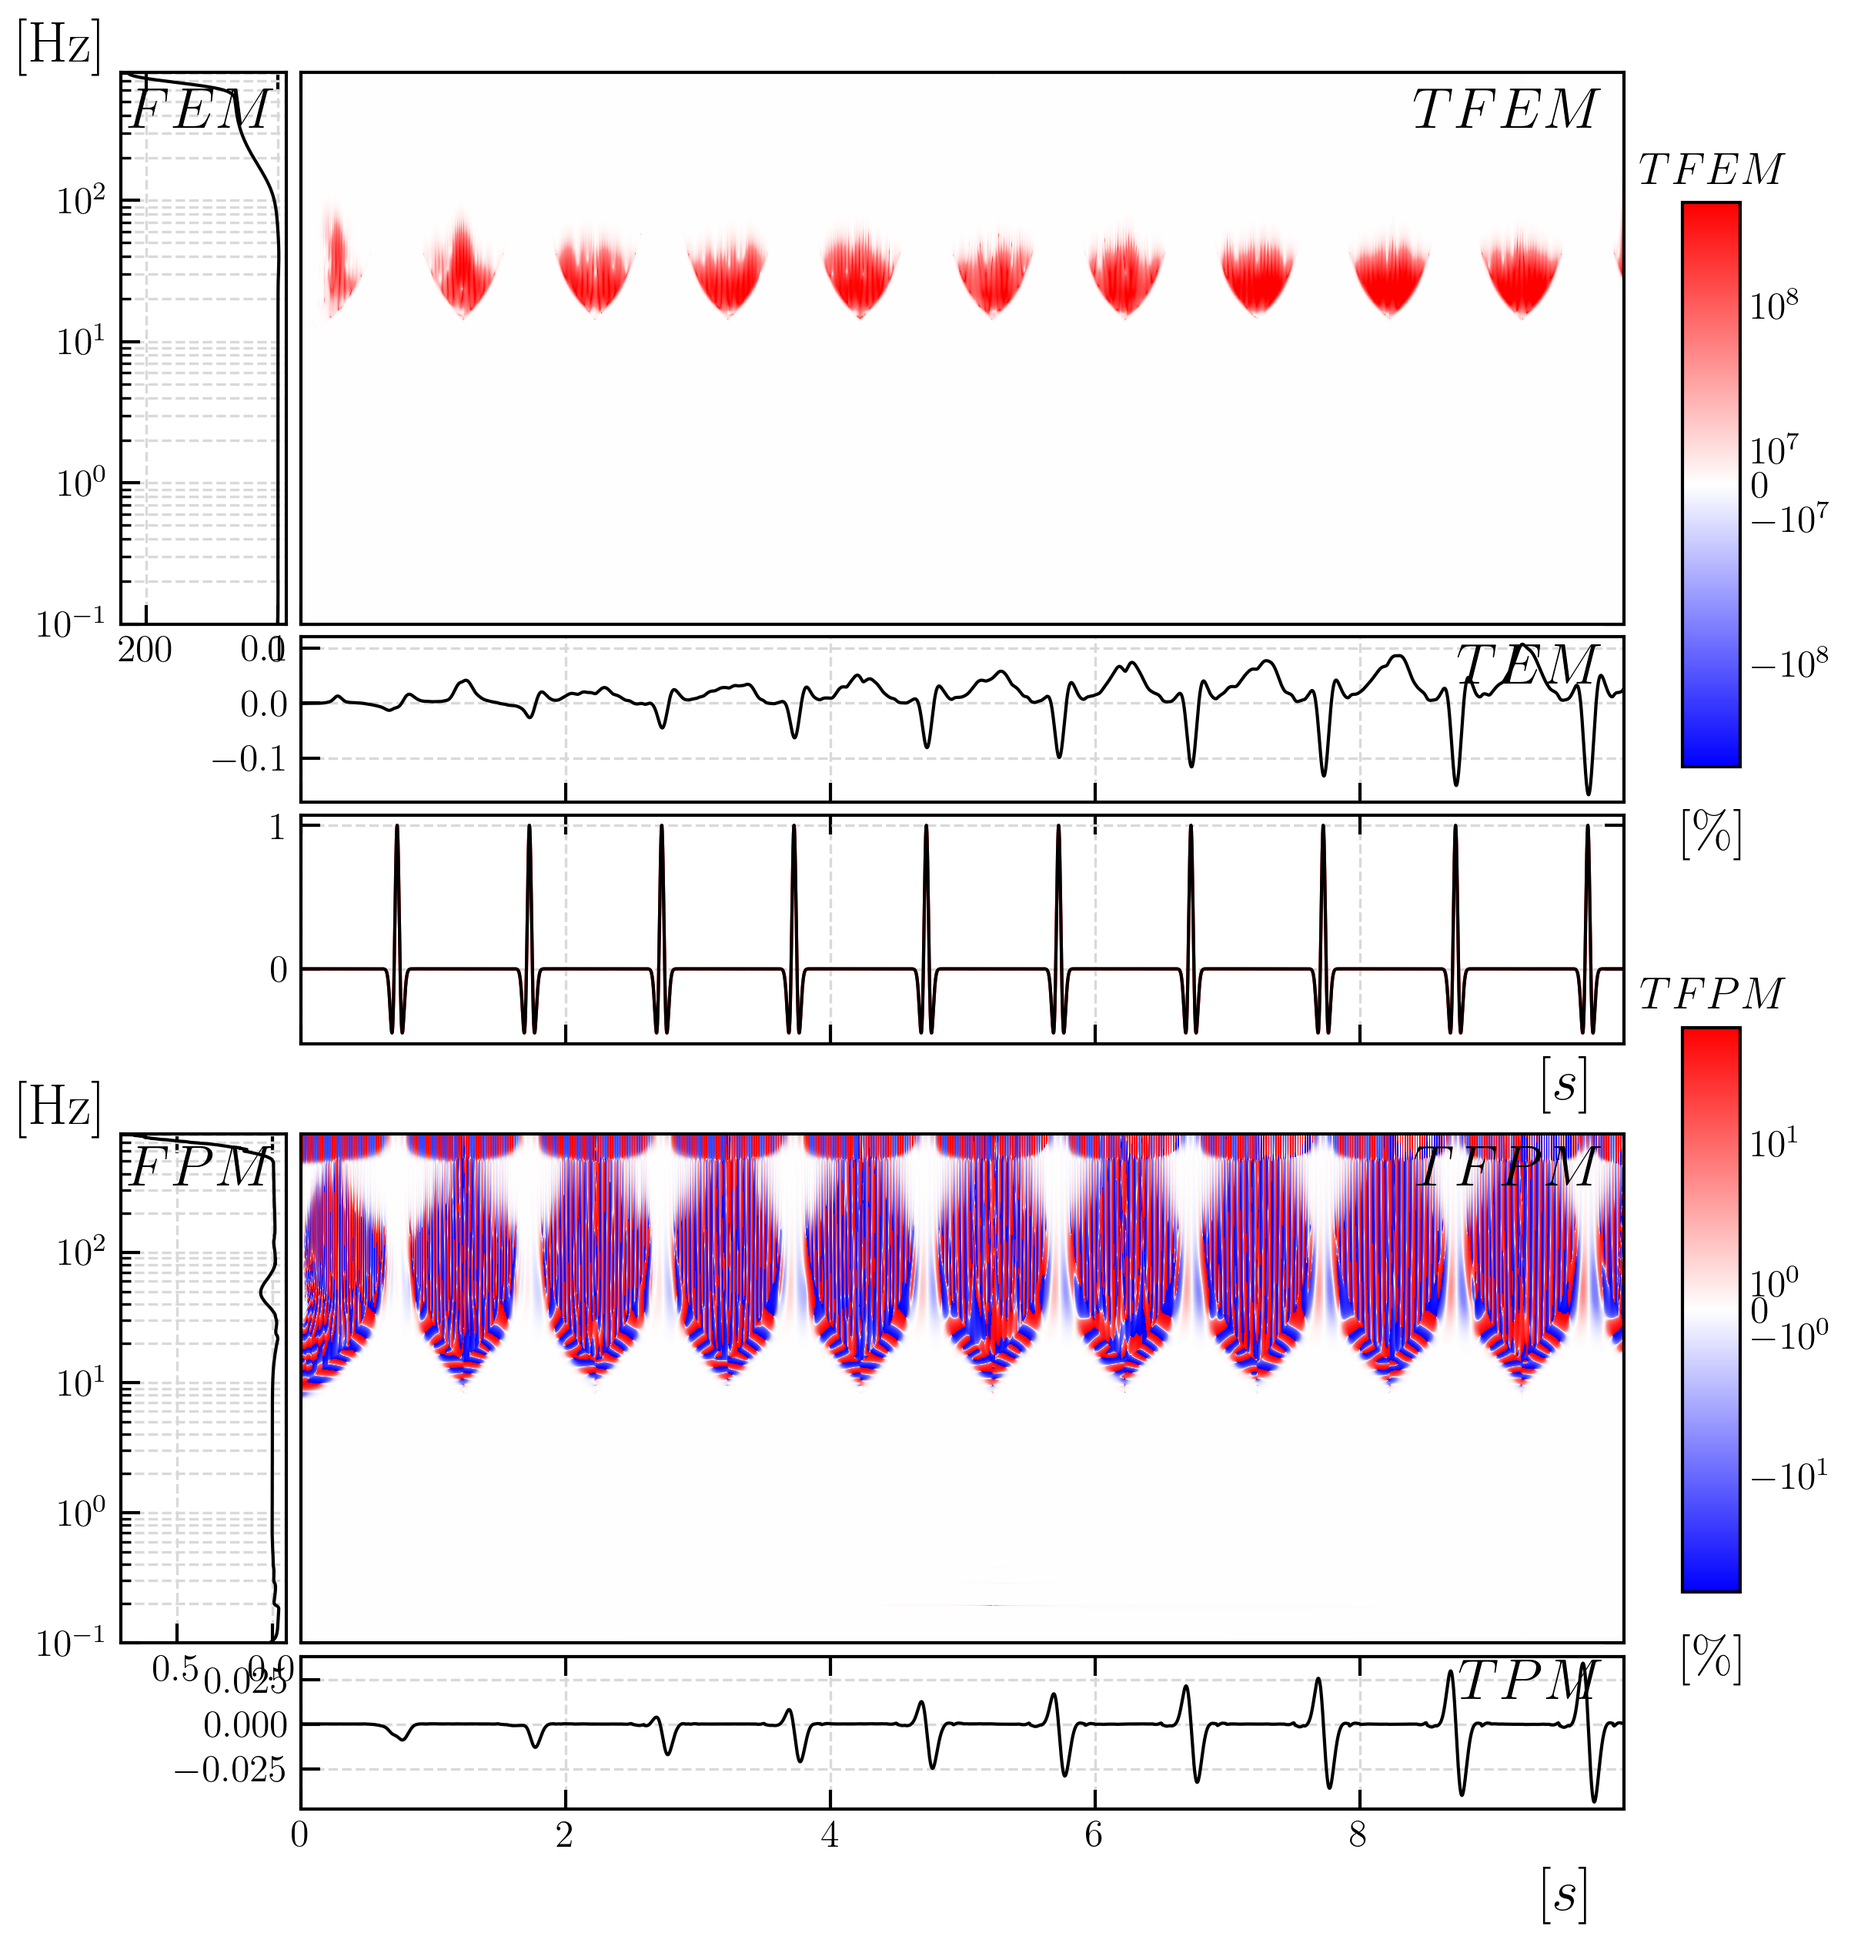
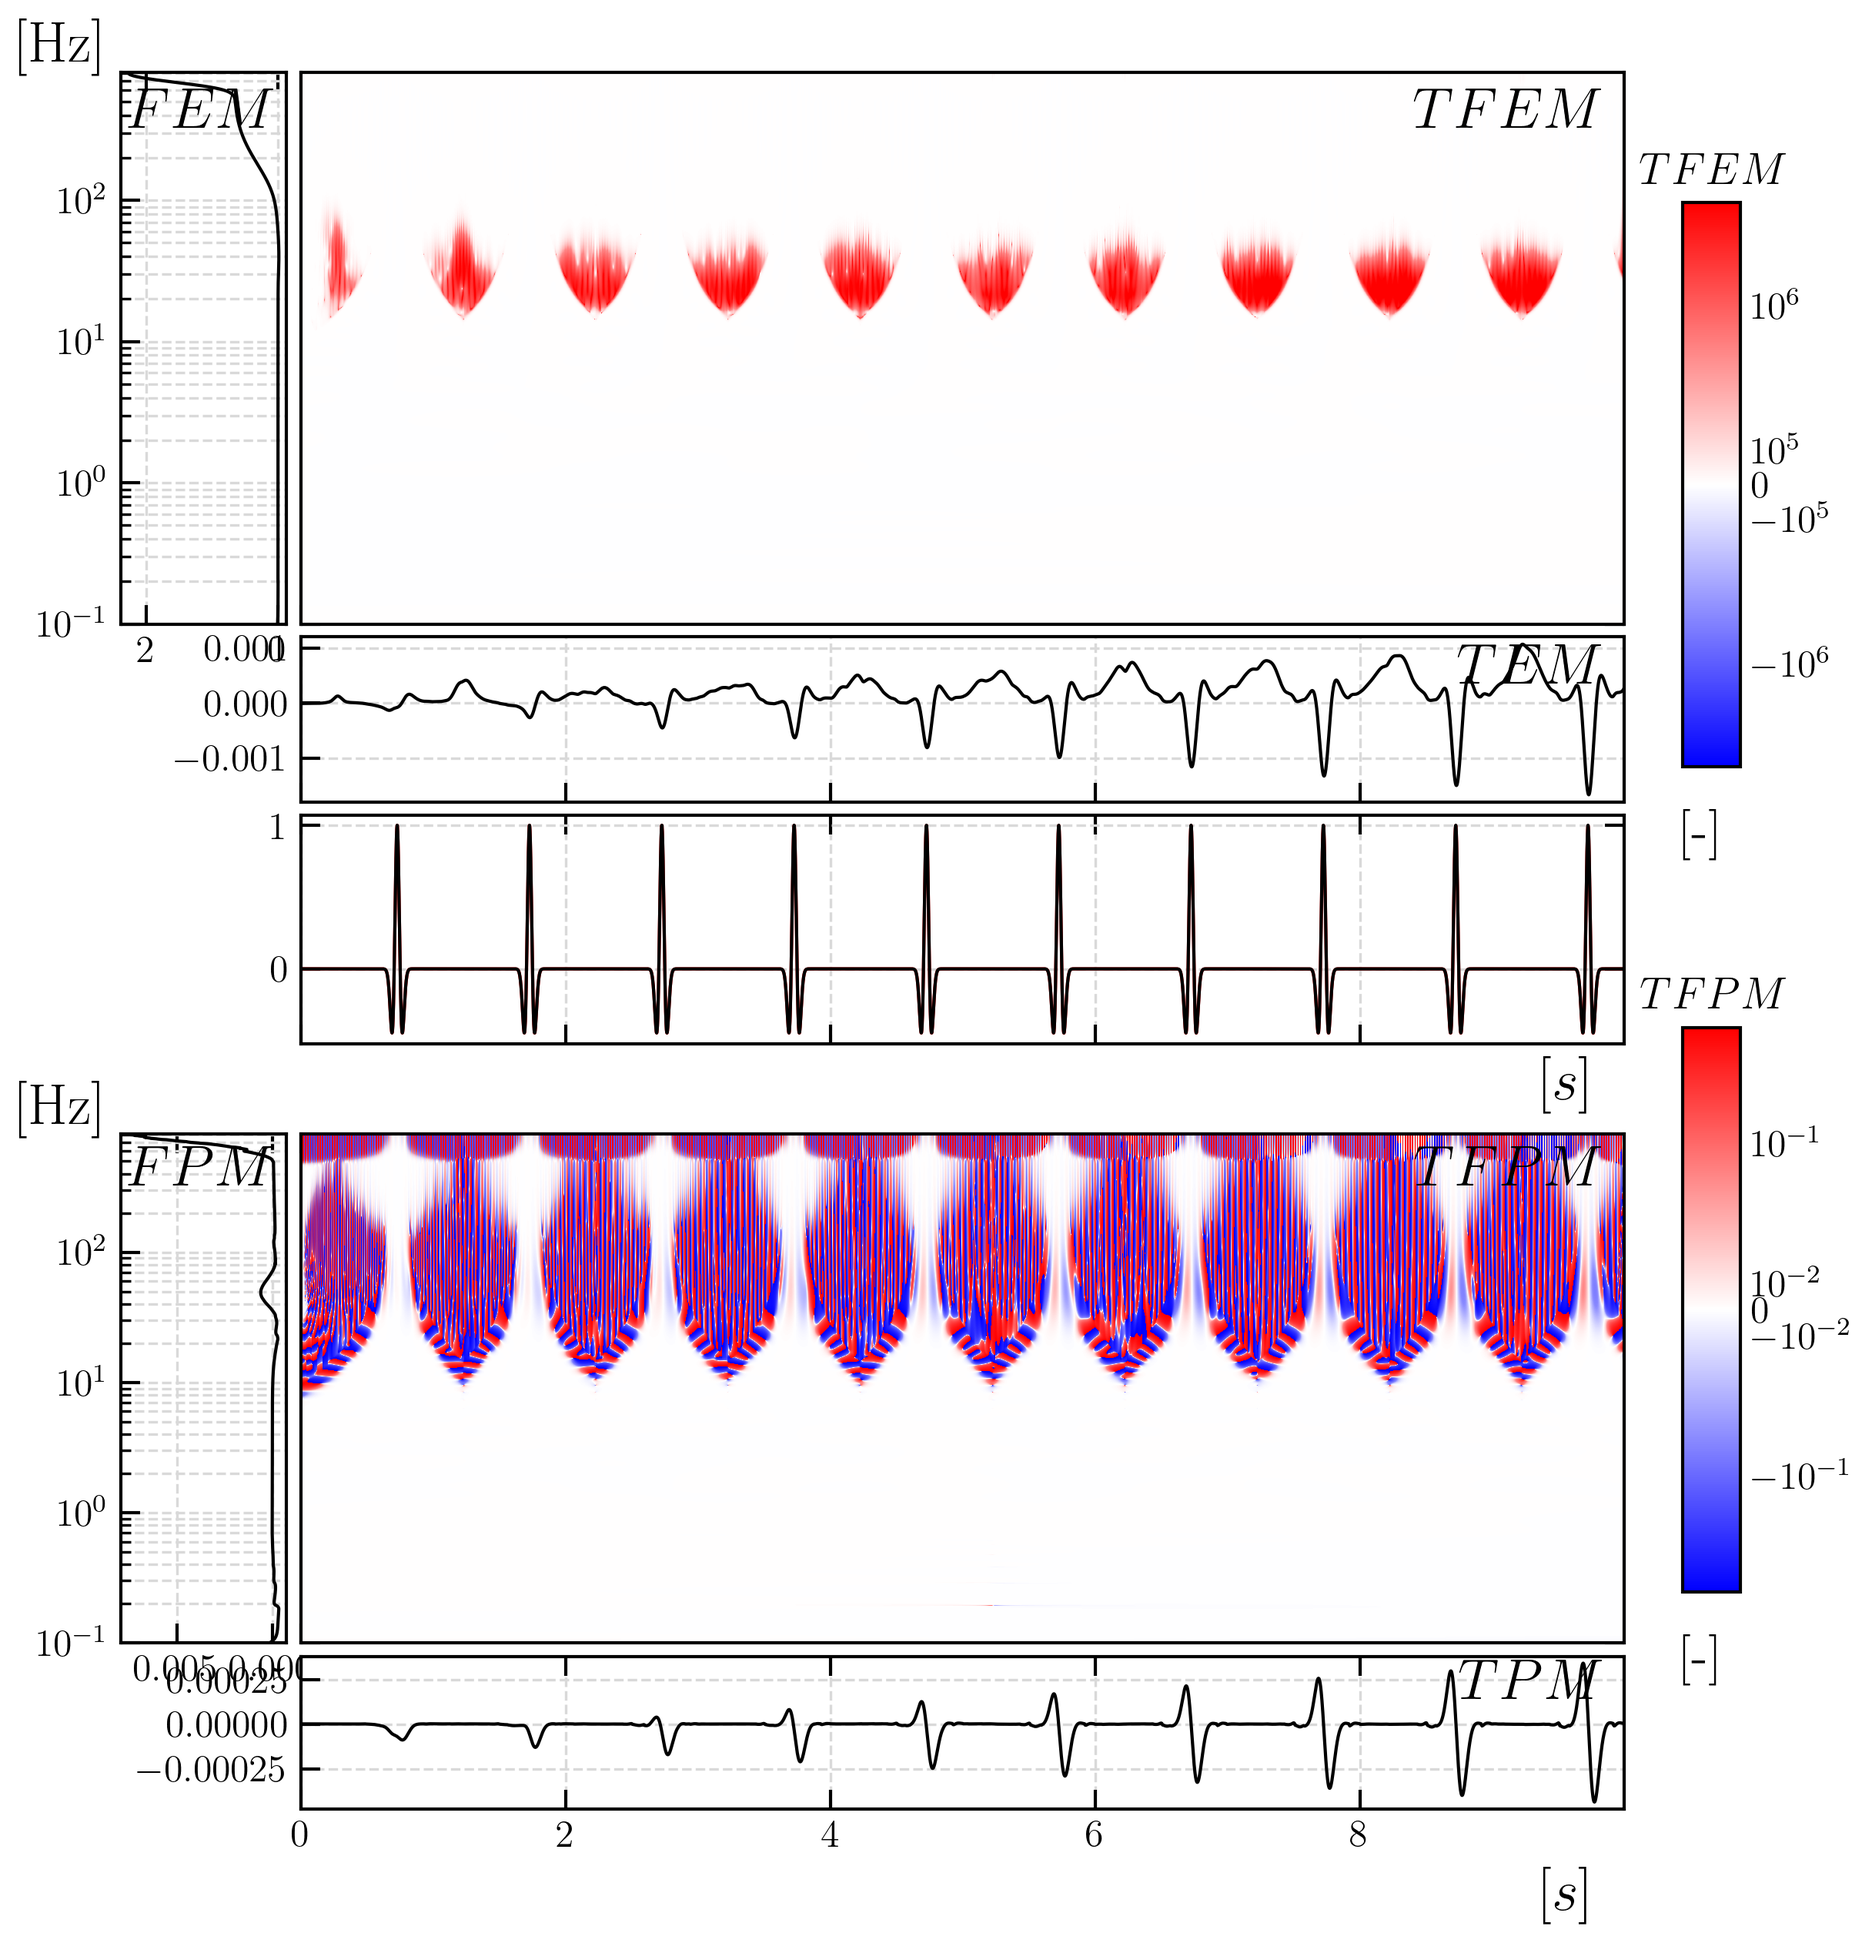
Modified local tf misfit cbar
Now it shows the local values of TFEM and TFEM instead of percentage

diff --git a/scripts/Plot.py b/scripts/Plot.py
@@ -198,12 +198,13 @@ else:
 # ------------------------------------------------------------
 # Convert to percent
 # ------------------------------------------------------------
-tfem *= 100.0
-tfpm *= 100.0
-fem *= 100.0
-fpm *= 100.0
-tem *= 100.0
-tpm *= 100.0
+if not local_norm:
+    tfem *= 100.0
+    tfpm *= 100.0
+    fem *= 100.0
+    fpm *= 100.0
+    tem *= 100.0
+    tpm *= 100.0
 
 # ------------------------------------------------------------
 # Color normalization
@@ -424,13 +425,13 @@ else:
     cax1 = fig.add_axes([0.93, 0.56, 0.03, 0.26])
     cb1 = fig.colorbar(im1, cax=cax1)
     cb1.ax.set_title(r"$TFEM$", fontsize=14, pad=6)
-    cb1.ax.text(0.0, -0.075, r"[\%]", transform=cb1.ax.transAxes,
+    cb1.ax.text(0.0, -0.075, r"[-]", transform=cb1.ax.transAxes,
                 ha="left", va="top", fontsize=16)
 
     cax2 = fig.add_axes([0.93, 0.18, 0.03, 0.26])
     cb2 = fig.colorbar(im2, cax=cax2)
     cb2.ax.set_title(r"$TFPM$", fontsize=14, pad=6)
-    cb2.ax.text(0.0, -0.075, r"[\%]", transform=cb2.ax.transAxes,
+    cb2.ax.text(0.0, -0.075, r"[-]", transform=cb2.ax.transAxes,
                 ha="left", va="top", fontsize=16)
 
 # Give a bit more room at the bottom so TPM labels are not clipped
